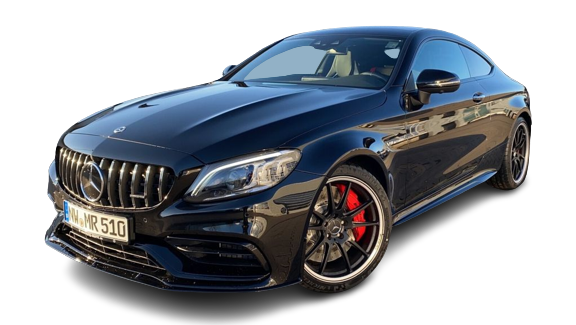
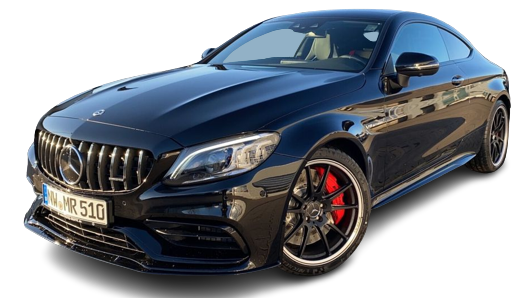
.

diff --git a/public/css/style/about.css b/public/css/style/about.css
@@ -1,0 +1,13 @@
+.about--text {
+  padding-top: 4.8rem;
+  text-align: center;
+}
+
+.about--heading {
+  margin-bottom: 2.4rem;
+}
+
+/* 
+2 / 4 / 8 / 12 / 16 / 24 / 32 / 48 / 64 / 80 / 96 / 128
+10 / 12 / 14 / 16 / 18 / 20 / 24 / 30 / 36 / 44 / 52 / 62 / 74 / 86 / 98
+*/

diff --git a/public/css/style/cars.css b/public/css/style/cars.css
@@ -78,7 +78,7 @@
 }
 
 .grid--car--img {
-  width: 40rem;
+  width: 100%;
   height: auto;
   filter: drop-shadow(1px 1px 1px var(--shadow-effect));
 }

diff --git a/public/css/style/style.css b/public/css/style/style.css
@@ -313,7 +313,7 @@
 
 .text--content {
   font-size: 1.8rem;
-  line-height: 1.5;
+  line-height: 1.7;
   color: #eee;
 }
 
